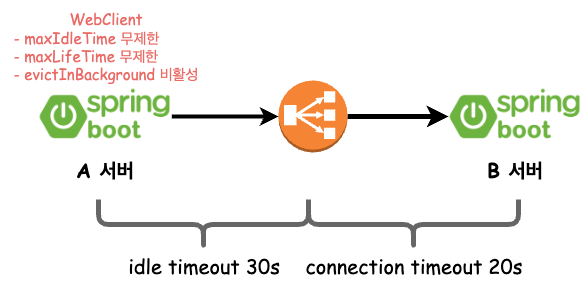
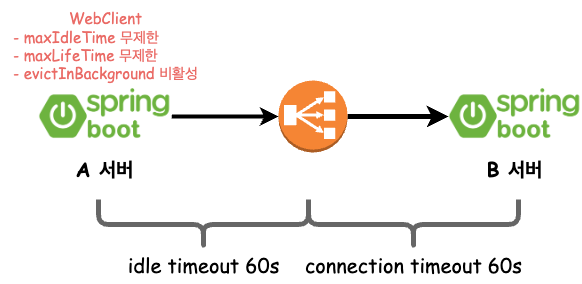
Premature 글 수정

diff --git a/content/blog/2025y/webclient/index.md b/content/blog/2025y/webclient/index.md
@@ -11,13 +11,12 @@ tags:
 
 # 문제 발견
 
-모니터링을 통해 1~2주 간격으로 한 번씩 `PrematureCloseException` 예외가 발생하는 것을 확인했다. 외부 서비스로 초당 300~400회 요청을 보내고, 응답을 기다리지 않는 비동기 방식으로 처리하는 중 부하가 몰릴 때 발생하는 것을 추가로 확인할 수 있었다.
-  
-예외의 원인을 확실하게 이해하기 위해 WebClient의 커넥션 풀이 어떻게 관리되는지 정상적인 케이스를 먼저 확인해보자.
+모니터링을 통해 보름 간격으로 한 번씩 `PrematureCloseException` 예외가 발생하는 것을 확인했다.  
+외부 서비스로 초당 300~400회 요청을 보내고, 응답을 기다리지 않는 비동기 방식으로 처리하는 중 부하가 몰릴 때 발생하는 것을 추가로 확인할 수 있었다.  
+    
+예외의 원인을 확실하게 이해하기 위해 WebClient의 커넥션 풀이 어떻게 관리되는지 정상적인 케이스를 먼저 확인해보자.  
 
 # WebClient Connection 상태 변화
-
-![](./network-sequence.png)
 
 > 8080포트의 서버에서 9090포트의 서버로 요청을 보내고 1초 후에 응답하는 API를 테스트해보았다.  
 > (keep-alive timeout = 3000ms)
@@ -26,92 +25,102 @@ tags:
 
 WebClient를 생성할 때 metrics를 활성화하여 로그를 확인해볼 수 있다.  
 
-<details>
-<summary>💡 WebClient Connection Pool 로그 자세히보기</summary>
-
 ```kotlin
 val httpClient = HttpClient.create(connectionProvider)
     .metrics(true) { uriTagValue -> uriTagValue }
-    .doOnConnected { conn ->
-        conn.channel().closeFuture().addListener {
-            logger.info("[Connection Closed] : $conn")
-        }
-        logger.info("[New Connection] : $conn")
-    }
-    .doOnConnect { config ->
-        logger.info("[Connection Attempt] Attempting to connect...")
-    }
-
-return WebClient.builder()
-    .baseUrl("http://localhost:9090")
-    .clientConnector(ReactorClientHttpConnector(httpClient))
-    .build()
 ```
 
-```
+```diff
++ 1. 커넥션 풀 생성
 Creating a new [my-provider] client pool [PoolFactory{evictionInterval=PT0S, leasingStrategy=fifo, maxConnections=1, maxIdleTime=-1, maxLifeTime=-1, metricsEnabled=false, pendingAcquireMaxCount=2, pendingAcquireTimeout=45000}] for [localhost/<unresolved>:9090]
 [1965a96f] Created a new pooled channel, now: 0 active connections, 0 inactive connections and 0 pending acquire requests.
+
++ 2. TCP 연결을 완료하고 커넥션 풀에 등록
 [1965a96f] REGISTERED
 [1965a96f] CONNECT: localhost/127.0.0.1:9090
-[1965a96f, L:/127.0.0.1:59768 - R:localhost/127.0.0.1:9090] Registering pool release on close event for channel
-[1965a96f, L:/127.0.0.1:59768 - R:localhost/127.0.0.1:9090] Channel connected, now: 1 active connections, 0 inactive connections and 0 pending acquire requests.
-[1965a96f, L:/127.0.0.1:59768 - R:localhost/127.0.0.1:9090] ACTIVE
-[1965a96f, L:/127.0.0.1:59768 - R:localhost/127.0.0.1:9090] onStateChange(PooledConnection{channel=[id: 0x1965a96f, L:/127.0.0.1:59768 - R:localhost/127.0.0.1:9090]}, [connected])
-[1965a96f-1, L:/127.0.0.1:59768 - R:localhost/127.0.0.1:9090] onStateChange(GET{uri=null, connection=PooledConnection{channel=[id: 0x1965a96f, L:/127.0.0.1:59768 - R:localhost/127.0.0.1:9090]}}, [configured])
-[New Connection] : GET{uri=null, connection=PooledConnection{channel=[id: 0x1965a96f, L:/127.0.0.1:59768 - R:localhost/127.0.0.1:9090]}}
-[1965a96f-1, L:/127.0.0.1:59768 - R:localhost/127.0.0.1:9090] Handler is being applied: {uri=http://localhost:9090/internal/delay/1, method=GET}
-[1965a96f-1, L:/127.0.0.1:59768 - R:localhost/127.0.0.1:9090] onStateChange(GET{uri=/internal/delay/1, connection=PooledConnection{channel=[id: 0x1965a96f, L:/127.0.0.1:59768 - R:localhost/127.0.0.1:9090]}}, [request_prepared])
-[1965a96f-1, L:/127.0.0.1:59768 - R:localhost/127.0.0.1:9090] WRITE: 102B GET /internal/delay/1 HTTP/1.1
+[1965a96f] Registering pool release on close event for channel
+[1965a96f] Channel connected, now: 1 active connections, 0 inactive connections and 0 pending acquire requests.
+[1965a96f] ACTIVE
+[1965a96f] onStateChange(PooledConnection{channel=[id: 0x1965a96f, L:/127.0.0.1:59768 - R:localhost/127.0.0.1:9090]}, [connected])
+
++ 3. 요청 준비
+[1965a96f-1] onStateChange(GET{uri=null, connection=PooledConnection{channel=[id: 0x1965a96f, L:/127.0.0.1:59768 - R:localhost/127.0.0.1:9090]}}, [configured])
+[1965a96f-1] Handler is being applied: {uri=http://localhost:9090/internal/delay/1, method=GET}
+[1965a96f-1] onStateChange(GET{uri=/internal/delay/1, connection=PooledConnection{channel=[id: 0x1965a96f, L:/127.0.0.1:59768 - R:localhost/127.0.0.1:9090]}}, [request_prepared])
+
++ 4. 요청 전송
+[1965a96f-1] WRITE: 102B GET /internal/delay/1 HTTP/1.1
 user-agent: ReactorNetty/1.1.22
 host: localhost:9090
 accept: */*
+[1965a96f-1] FLUSH
+[1965a96f-1] WRITE: 0B
+[1965a96f-1] FLUSH
+[1965a96f-1] onStateChange(GET{uri=/internal/delay/1, connection=PooledConnection{channel=[id: 0x1965a96f, L:/127.0.0.1:59768 - R:localhost/127.0.0.1:9090]}}, [request_sent])
 
-[1965a96f-1, L:/127.0.0.1:59768 - R:localhost/127.0.0.1:9090] FLUSH
-[1965a96f-1, L:/127.0.0.1:59768 - R:localhost/127.0.0.1:9090] WRITE: 0B
-[1965a96f-1, L:/127.0.0.1:59768 - R:localhost/127.0.0.1:9090] FLUSH
-[1965a96f-1, L:/127.0.0.1:59768 - R:localhost/127.0.0.1:9090] onStateChange(GET{uri=/internal/delay/1, connection=PooledConnection{channel=[id: 0x1965a96f, L:/127.0.0.1:59768 - R:localhost/127.0.0.1:9090]}}, [request_sent])
-[1965a96f-1, L:/127.0.0.1:59768 - R:localhost/127.0.0.1:9090] READ: 142B HTTP/1.1 200 
++ 5. 응답 헤더 수신
+[1965a96f-1] READ: 142B HTTP/1.1 200 
 Content-Type: text/plain;charset=UTF-8
 Content-Length: 28
 Date: Tue, 23 Sep 2025 06:09:17 GMT
 
-
++ 6. 응답 바디 수신
 delay api success. seconds=1
-15:09:17.136+09:00 --- [r-http-kqueue-2] r.n.http.client.HttpClientOperations     : [1965a96f-1, L:/127.0.0.1:59768 - R:localhost/127.0.0.1:9090] Received response (auto-read:false) : RESPONSE(decodeResult: success, version: HTTP/1.1)
+[1965a96f-1] Received response (auto-read:false) : RESPONSE(decodeResult: success, version: HTTP/1.1)
 HTTP/1.1 200 
 Content-Type: <filtered>
 Content-Length: <filtered>
 Date: <filtered>
-[1965a96f-1, L:/127.0.0.1:59768 - R:localhost/127.0.0.1:9090] onStateChange(GET{uri=/internal/delay/1, connection=PooledConnection{channel=[id: 0x1965a96f, L:/127.0.0.1:59768 - R:localhost/127.0.0.1:9090]}}, [response_received])
-[1965a96f-1, L:/127.0.0.1:59768 - R:localhost/127.0.0.1:9090] [terminated=false, cancelled=false, pending=0, error=null]: subscribing inbound receiver
-[1965a96f-1, L:/127.0.0.1:59768 - R:localhost/127.0.0.1:9090] Received last HTTP packet
-[1965a96f, L:/127.0.0.1:59768 - R:localhost/127.0.0.1:9090] onStateChange(GET{uri=/internal/delay/1, connection=PooledConnection{channel=[id: 0x1965a96f, L:/127.0.0.1:59768 - R:localhost/127.0.0.1:9090]}}, [response_completed])
-[1965a96f, L:/127.0.0.1:59768 - R:localhost/127.0.0.1:9090] onStateChange(GET{uri=/internal/delay/1, connection=PooledConnection{channel=[id: 0x1965a96f, L:/127.0.0.1:59768 - R:localhost/127.0.0.1:9090]}}, [disconnecting])
-[1965a96f, L:/127.0.0.1:59768 - R:localhost/127.0.0.1:9090] Releasing channel
-[1965a96f, L:/127.0.0.1:59768 - R:localhost/127.0.0.1:9090] Channel cleaned, now: 0 active connections, 1 inactive connections and 0 pending acquire requests.
-[1965a96f, L:/127.0.0.1:59768 - R:localhost/127.0.0.1:9090] READ COMPLETE
+[1965a96f-1] onStateChange(GET{uri=/internal/delay/1, connection=PooledConnection{channel=[id: 0x1965a96f, L:/127.0.0.1:59768 - R:localhost/127.0.0.1:9090]}}, [response_received])
+[1965a96f-1] [terminated=false, cancelled=false, pending=0, error=null]: subscribing inbound receiver
+
++ 6-1. 응답 바디 수신 완료
+[1965a96f-1] Received last HTTP packet
+[1965a96f] onStateChange(GET{uri=/internal/delay/1, connection=PooledConnection{channel=[id: 0x1965a96f, L:/127.0.0.1:59768 - R:localhost/127.0.0.1:9090]}}, [response_completed])
+
++ 7. 연결 해제 및 커넥션을 풀에 반환하여 idle 상태로 전환
+[1965a96f] onStateChange(GET{uri=/internal/delay/1, connection=PooledConnection{channel=[id: 0x1965a96f, L:/127.0.0.1:59768 - R:localhost/127.0.0.1:9090]}}, [disconnecting])
+[1965a96f] Releasing channel
+[1965a96f] Channel cleaned, now: 0 active connections, 1 inactive connections and 0 pending acquire requests.
+[1965a96f] READ COMPLETE
 
 -- 3초 이후 --
 
-[1965a96f, L:/127.0.0.1:59768 - R:localhost/127.0.0.1:9090] READ COMPLETE
++ 8. 커넥션 최종 연결 종료
+[1965a96f] READ COMPLETE
 [Connection Closed] : GET{uri=/internal/delay/1, connection=PooledConnection{channel=[id: 0x1965a96f, L:/127.0.0.1:59768 ! R:localhost/127.0.0.1:9090]}}
-[1965a96f, L:/127.0.0.1:59768 ! R:localhost/127.0.0.1:9090] INACTIVE
-[1965a96f, L:/127.0.0.1:59768 ! R:localhost/127.0.0.1:9090] onStateChange(PooledConnection{channel=[id: 0x1965a96f, L:/127.0.0.1:59768 ! R:localhost/127.0.0.1:9090]}, [disconnecting])
-[1965a96f, L:/127.0.0.1:59768 ! R:localhost/127.0.0.1:9090] UNREGISTERED
+[1965a96f] INACTIVE
+[1965a96f] onStateChange(PooledConnection{channel=[id: 0x1965a96f, L:/127.0.0.1:59768 ! R:localhost/127.0.0.1:9090]}, [disconnecting])
+[1965a96f] UNREGISTERED
 ```
-</details>
 
-![](./connection-statediagram.png)
+
+```diff
+┌─────────────┐    ┌──────────────┐    ┌─────────────┐    ┌──────────────┐
+│ 1. 풀 생성    │ →  │ 2. TCP 연결   │ →  │ 3. HTTP 요청 │ →  │ 4. HTTP 응답  │ →
+└─────────────┘    └──────────────┘    └─────────────┘    └──────────────┘
+  Pool Init         REGISTERED            configured          response
+                    CONNECT               request_prepared    received
+                    ACTIVE                request_sent        completed
+                    (1 active)            (WRITE/FLUSH)       (200 OK)
+
+┌──────────────┐    ┌─────────────┐    ┌──────────────┐
+│ 5. 연결 해제   │ →  │ 6. 유휴 대기   │ →  │ 7. 최종 종료   │
+└──────────────┘    └─────────────┘    └──────────────┘
+  disconnecting     Keep-Alive          INACTIVE
+  Release           (재사용 대기)        UNREGISTERED
+  (0 active,        (~3초)              (Pool에서 제거)
+   1 inactive)
+```
+
 
 로그와 다이어그램을 통해 Connection의 상태가 변화되는 주요 단계를 확인할 수 있다.  
 이제 PrematureCloseException이 발생하는 원인에 대해 더 자세하게 확인해보자.
 
 # PrematureCloseException이 발생하는 케이스
 
-`PrematureCloseException`은 HTTP 통신 중 예상하지 못한 시점에 연결이 종료될 때 발생하는 예외다.  
-이 예외는 복잡한 네트워크 통신에서 발생하는 다양한 시나리오를 구분하여 더 구체적인 디버깅 정보를 제공한다.
-  
-`HttpClientOperations.onInboundClose()`는 원격 서버에서 FIN 패킷을 보내면 수신 서버가 EOF 이벤트를 감지하고 정상적으로 연결을 닫는 경우 호출된다.  
+즉, `PrematureCloseException`은 HTTP 통신 중 예상하지 못한 시점에 연결이 종료될 때 발생하는 예외다.  
+자세히는 네트워크의 입출력과 생명주기, 이벤트, 상태 관리 등을 관리하는 ChannelOperations를 상속한 `HttpClientOperations`에서 채널을 정리할 때 실행되는 `onInboundClose()`함수에서 EOF 이벤트를 감지하고 현재의 상태를 확인하여 예외를 생성한다.  
   
 **연결 종료 감지 과정**  
 1. (테스트 환경이 mac이라서) KQueueEventLoop에서 FIN 패킷을 EV_EOF 이벤트로 감지
@@ -122,7 +131,6 @@ Date: <filtered>
 6. **ChannelHandler.channelInactive() 프로토콜별 정리 작업에서 onInboundClose() 호출** → HTTP 프로토콜 레벨에서 어떤 단계에서 문제가 발생했는지 구분해서 적절한 예외를 발생시킨다.
 
 ![](./onInboundClose.png)
-
 
 > 1. 요청 헤더 전송
 > 2. 요청 바디 전송   ← 여기서 닫히면 `"while sending request body"` **아직 요청도 완전히 못 보낸 상태**
@@ -295,7 +303,7 @@ Transmission Control Protocol, Src Port: 9090, Dst Port: 52226, Seq: 2, Ack: 426
 Flags: 0x014 (RST, ACK)
 ```
 
-RST 플래그가 전송된 시점이 해당 USER_EVENT가 전송된 이후에 전송된 것을 확인할 수 있다.
+RST 패킷이 전송된 시점이 해당 USER_EVENT가 전송된 이후에 전송된 것을 확인할 수 있다.
 
 
 ## 2. BEFORE response
@@ -595,11 +603,22 @@ tcp_rcv_state_process(struct sock *sk, struct sk_buff *skb)
   
 이는 종료 절차가 진행 중인 연결에 새로운 데이터가 오는 것을 비정상적인 상황으로 간주하여 강제로 연결을 리셋하기 때문이다.
 
-# 원인 분석
+# 원인과 예방 방법
+
+`PrematureCloseException`예외가 무엇인지, 예외의 메세지가 왜 서로 다른지 알아보았다.  
+이 예외의 원인인 서버가 갑자기 연결을 끊는 경우는 어떤 경우가 있는지, 해결 방법은 무엇인지 알아보자.
 
 ## 로드밸런서와 서버간 timeout이 다른 경우
 
-## retry 로직 추가
+![](./diff-timeout.png)
+
+![](./lb-timeout.png)
+
+LB와 서버의 timeout 값이 서로 다를 때 RST 패킷으로 인해 PrematureCloseException 예외가 발생할 수 있다.  
+[`AWS` Introducing configurable Idle timeout for Connection tracking](https://aws.amazon.com/ko/blogs/networking-and-content-delivery/introducing-configurable-idle-timeout-for-connection-tracking/) 글을 보면 세션 테이블이 갱신되는 경우 직접적으로 FIN 이나 RST를 보내지 않고 조용히 세션 테이블을 갱신한다.  
+
+>  It’s also important to note that almost all firewalls will silently remove idle connections from their state and will not initiate a close (send a TCP FIN or RST) to the client or server.  
+> The NLB has a fixed idle timeout of 350 seconds for TCP flows. Once the idle timeout is reached or a TCP connection is closed, it is removed from NLB’s connection state table.
 
 ## WebClient maxIdleTime 설정 부재
 
@@ -628,6 +647,9 @@ Exception in thread "DefaultDispatcher-worker-5" Exception in thread "DefaultDis
 
 - 커넥션 풀의 최대 개수만큼 배압 조절
 
+![](./network-sequence.png)
+
+## retry 로직 추가
 
 > 참고  
 > 1. [[Kernel] 커널과 함께 알아보는 소켓과 TCP Deep Dive](https://brewagebear.github.io/linux-kernel-internal-3/)
